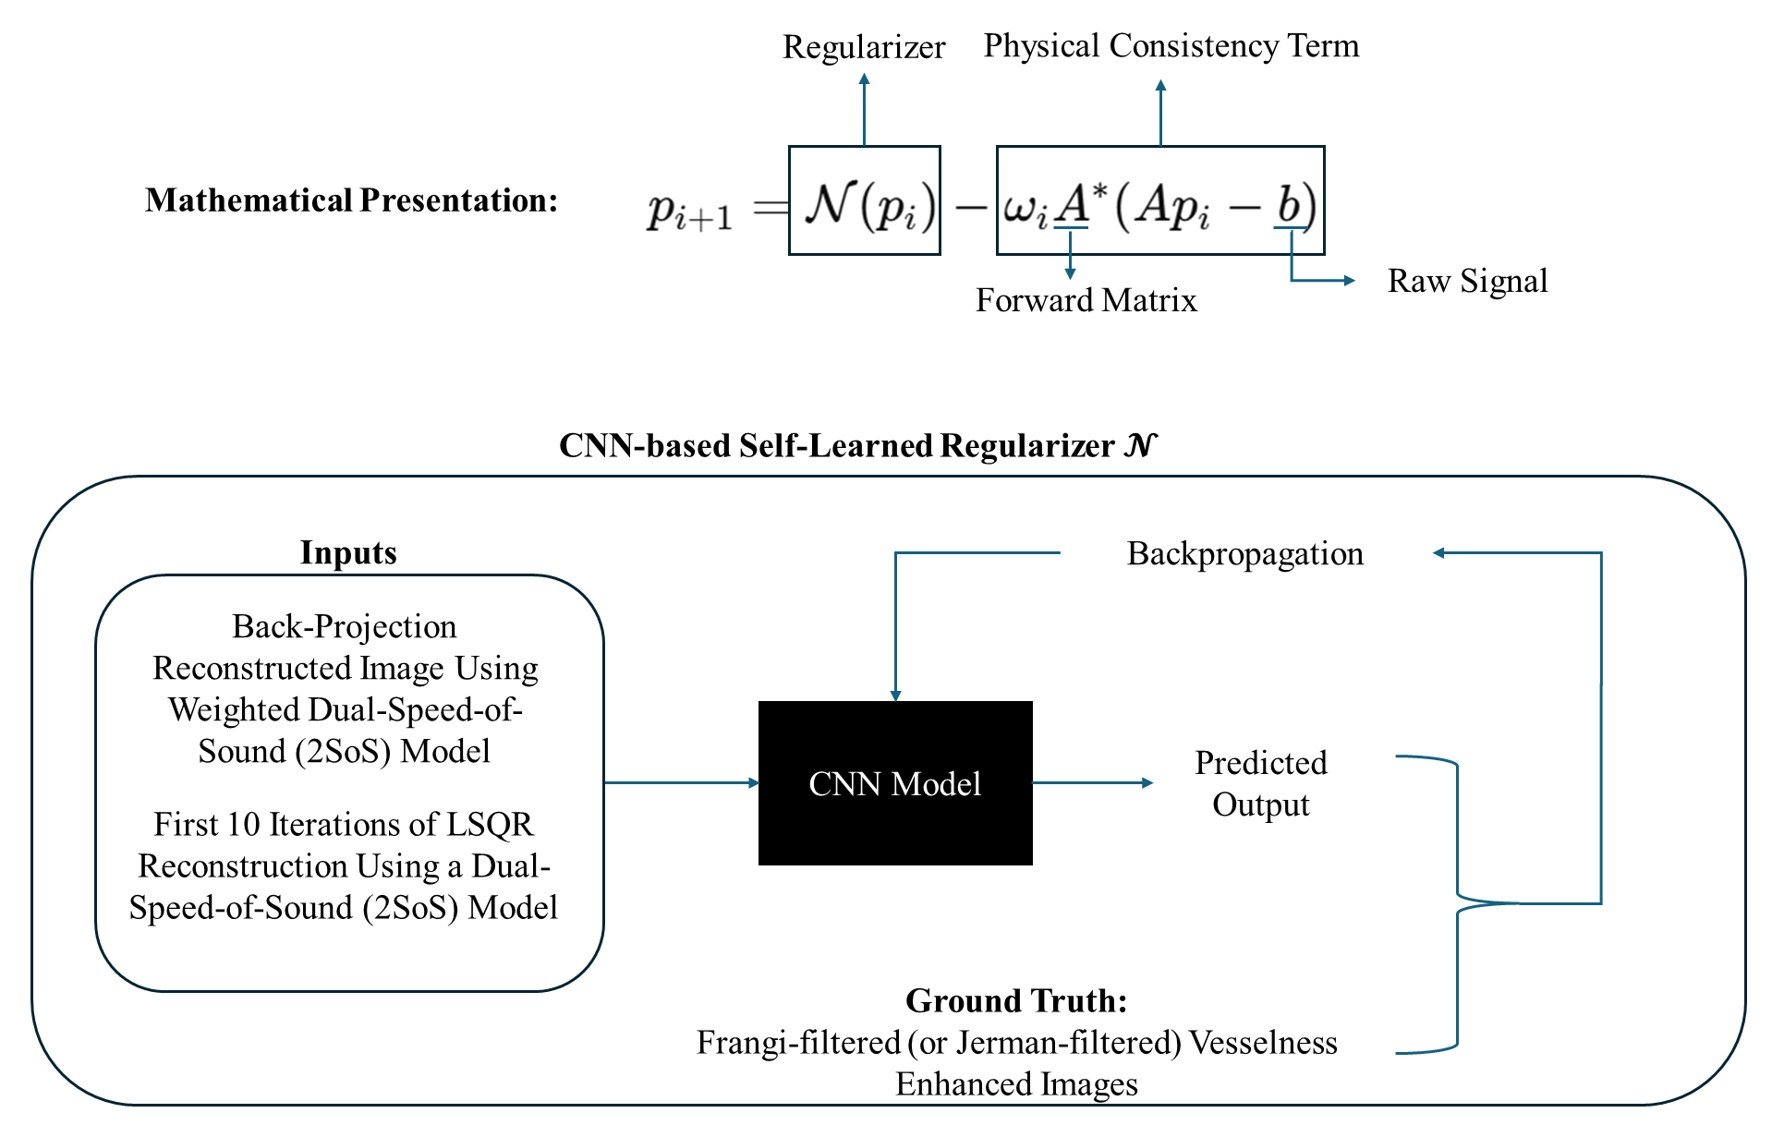
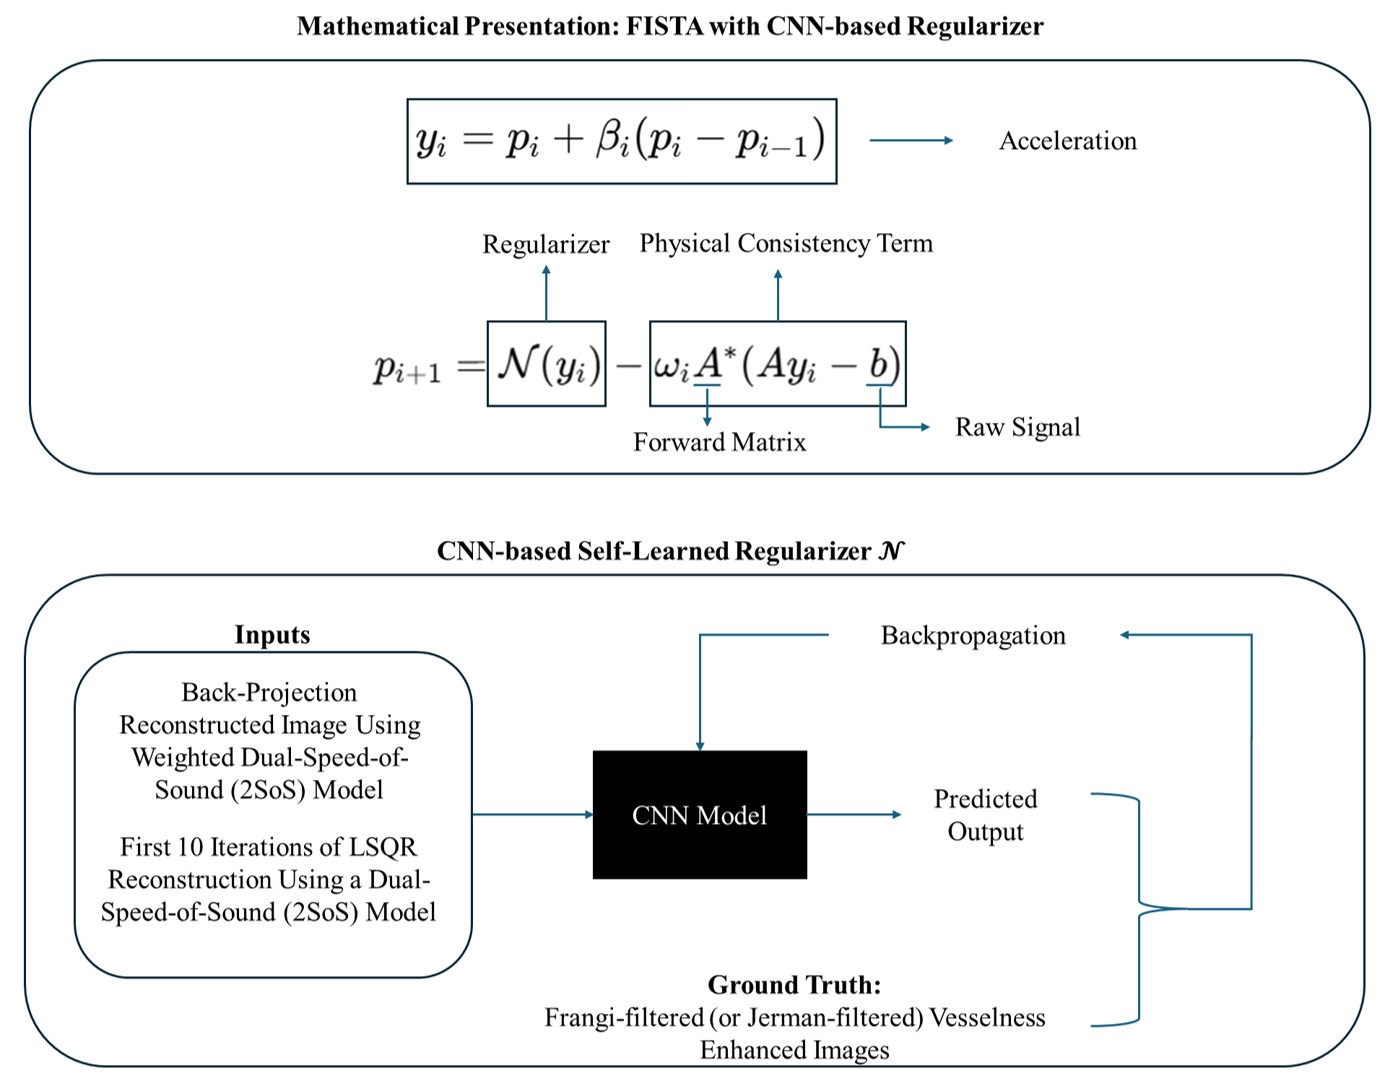
modify

diff --git a/projects.html b/projects.html
@@ -87,10 +87,19 @@
 </span></div>
           <div class="project-row">
             <ul>
-              <li>Performed optoacoustic image reconstruction using homogeneous and heterogeneous back-projection as well as LSQR-based heterogeneous models to reconstruct in vivo mouse abdomen images.</li>
-              <li>Implemented and compared vesselness enhancement filters (Frangi, Jerman, and others) for post-processing.</li>
-              <li>Developing an unrolled, physics-guided deep learning framework that integrates CNN-based image enhancement with model-based reconstruction, where the CNN acts as a self-learned regularizer.</li>
-              <li>Conducting systematic comparison and evaluation of reconstruction performance across different algorithm.</li>
+              <li>Designed a FISTA-inspired reconstruction algorithm for optoacoustic tomography (OAT), where each iteration combines:</li>
+                <ul>
+                  <li>Nesterov acceleration used to speed up convergence</li>
+                  <li>Shared CNN-based self-learned regularizer applied at every iteration</li>
+                  <li>Physics-informed data consistency term</li>
+                </ul>
+              <li>Building and training the self-learned CNN regularizer using:</li>
+                <ul>
+                  <li>Weighted dual-speed-of-sound (2SoS) back-projection reconstructions and the first ten 2SoS LSQR reconstruction iterations as inputs</li>
+                  <li>Vesselness-enhanced (Frangi, Jerman filters, etc.) images as structural ground truth</li>
+                </ul>
+              <li>Will conduct testing and validation across independent OAT acquisitions.</li>
+              <li>May additionally engage in phantom data acquisition, depending on project timeline and availability.</li>
             </ul>
             <!-- <div class="project-images">
               <img src="images/OAT.jpg" alt="Basic Workflow" onclick="openModal(this)">
@@ -116,12 +125,12 @@
 
           <div class="project-row">
             <ul>
-              <li>Determined and optimized PEGDA/PNIPAM hydrogel formulations for DLP-based 3D printing.</li>
-              <li>Fabricated PDMS-acrylic pool chambers for hydrogel photocuring via PDMS spin-coating and oxygen-plasma bonding.</li>
-              <li>Designed and 3D-printed bilayer hydrogel cuff electrodes integrating PNIPAM and PEGDA.</li>
-              <li>Controlled curvature deformation under thermal stimulation through structural design optimization.</li>
-              <li>Designed and 3D-printed flow chambers to evaluate cuff-electrode adhesion under fluid conditions.</li>
-              <li>Utilized CAD modeling in Onshape, UV polymerization setup, and optical imaging techniques for characterization.</li>
+              <li>Determined and optimized PEGDA/PNIPAM hydrogel formulations for DLP-based 3D printing</li>
+              <li>Fabricated PDMS pool chambers via PDMS spin-coating and oxygen-plasma treatment for hydrogel photocuring</li>
+              <li>Designed printing patterns on AutoCAD and printed thermally stimulated PNIPAM/PEGDA bilayer hydrogel cuff electrodes</li>
+              <li>Controlled thermally induced curvature deformation through structural design optimization</li>
+              <li>Designed and 3D-printed nerve fixation and sealing connectors in Onshape to construct a microfluidic channel for evaluating cuff-electrode attachment under programmed flow conditions mimicking in vivo environments.</li>
+              <li>Utilized micro-CT and optical imaging techniques for structural and morphological characterization.</li>
             </ul>
           <div class="project-images-grid">
             <img src="images/locking.jpg" alt="Thermally triggered self-locking mechanism of a bilayer hydrogel cuff (modeled in Blender)"    onclick="openModal(this)">
